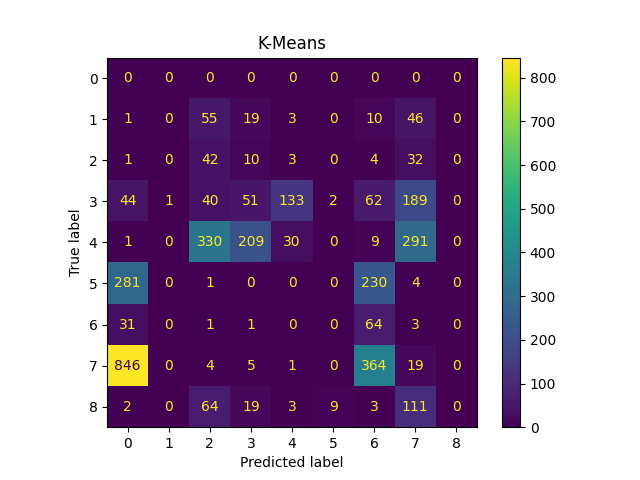
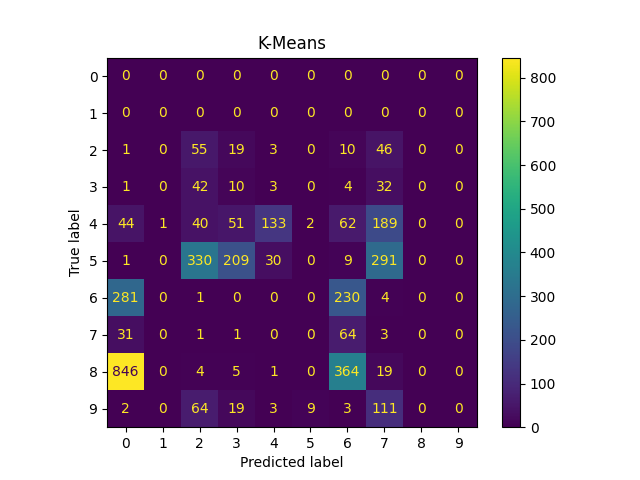
actualization of Confusion Matrix

diff --git a/visualization_script.py b/visualization_script.py
@@ -9,7 +9,7 @@ classes_labels = ['AGN', 'BL Lac', 'CV', 'QSO', 'SN II', 'SN IIn', 'SN Ia', 'YSO
 methods = ['DBSCAN', 'K-Means', 'MiniBatchKMeans', 'BisectingKMeans', 'AggCluAvarage', 'AggCluWard', 'AggCluSingle']
 
 def label_funct(name):
-    i = 0
+    i = 1
     for j in classes_labels:
         i+=1
         if name == j:
